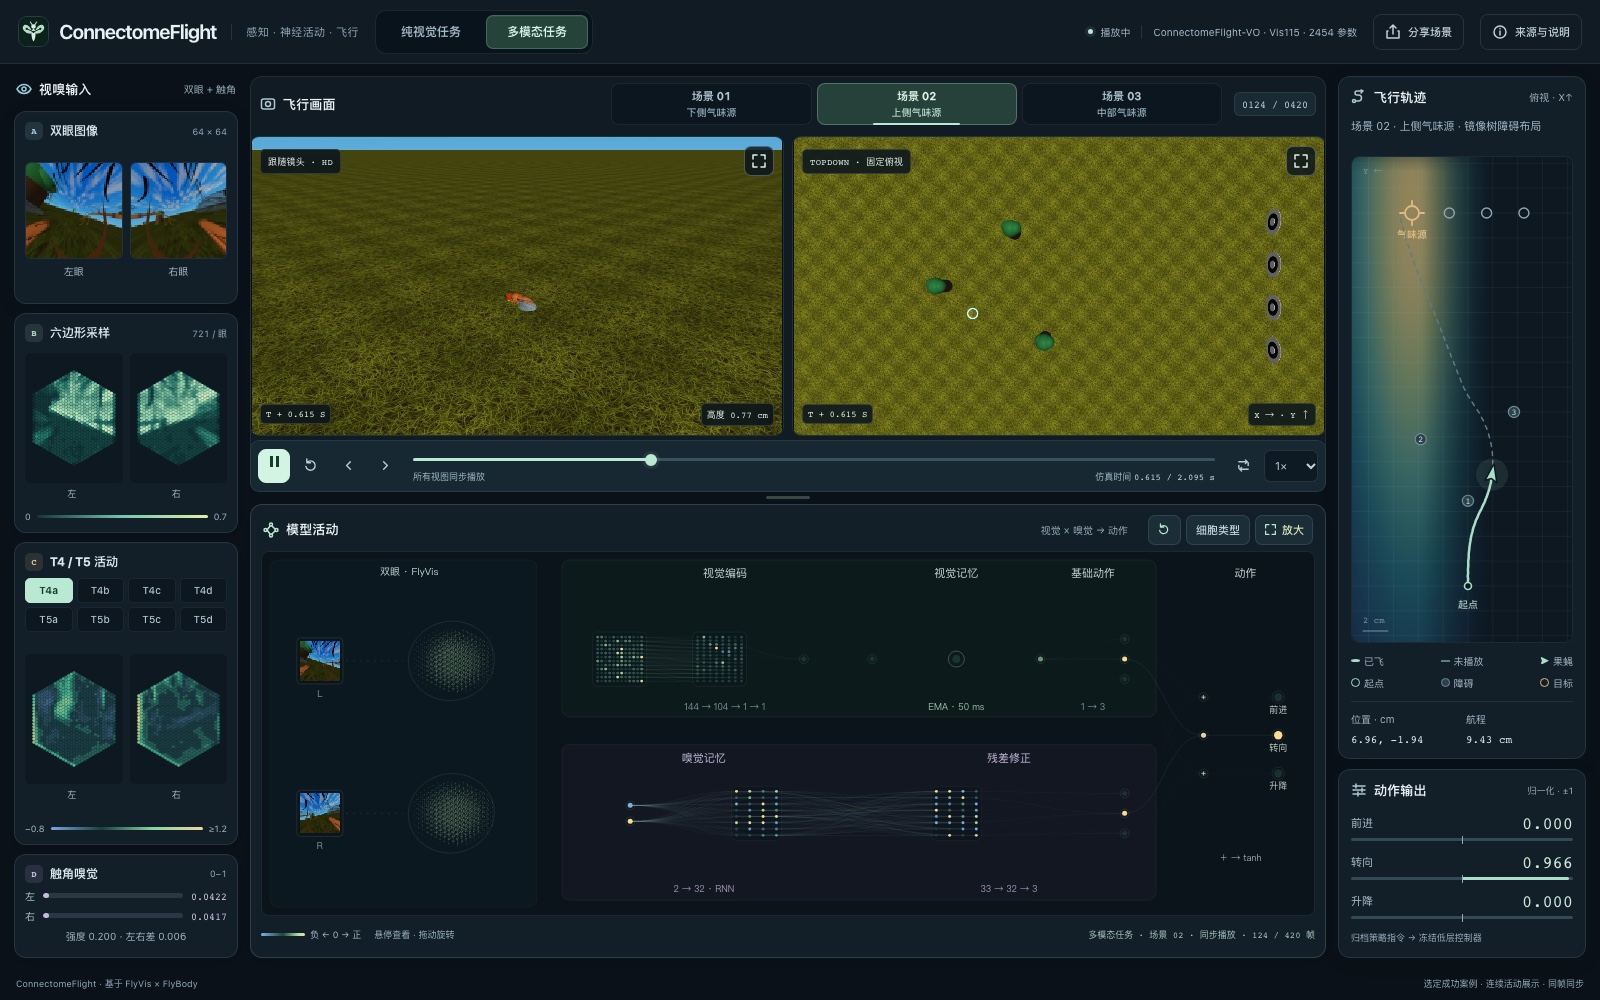
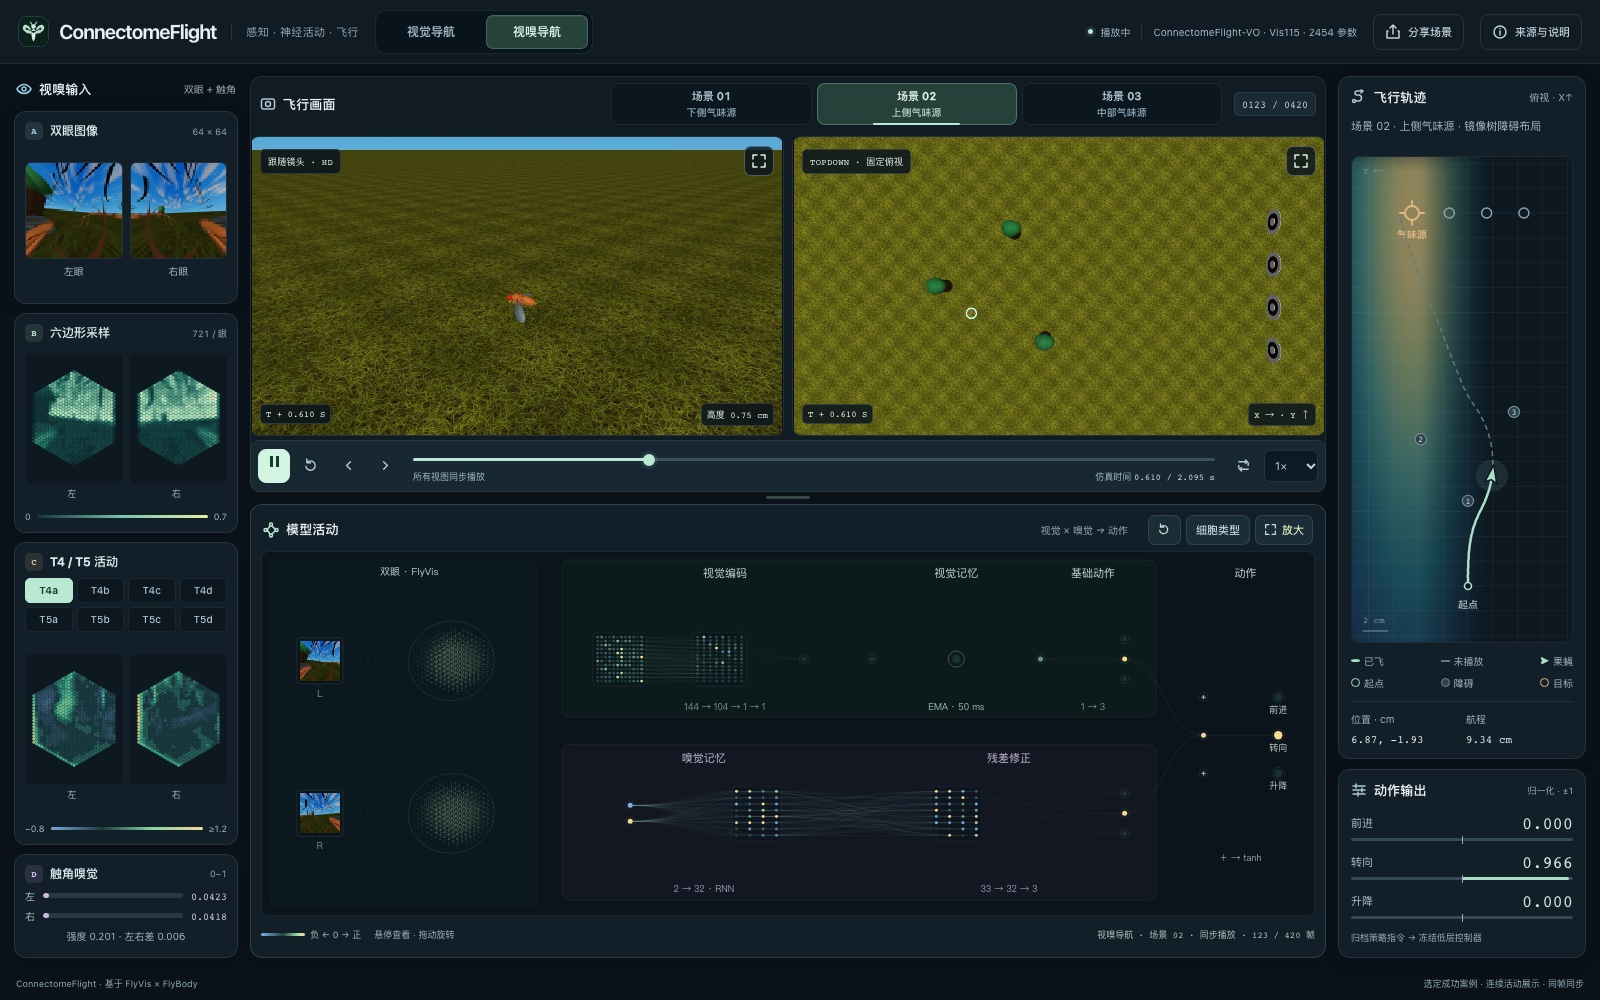
Rename site to ConnectomeFlight-Web and refresh task labels
- Update canonical, Open Graph and repository links to ConnectomeFlight-Web
- Rename task labels to 视觉导航 / 视嗅导航
- Refresh the README preview and social image

diff --git a/dist/index.html b/dist/index.html
@@ -10,8 +10,8 @@
   <meta property="og:type" content="website">
   <meta property="og:title" content="ConnectomeFlight · 感知与飞行观测台">
   <meta property="og:description" content="对照三个飞行场景，同步观察双眼与触角输入、模型活动、双镜头和飞行轨迹。">
-  <meta property="og:url" content="https://zhaofanbo.com/SenseFlight-Web/">
-  <meta property="og:image" content="https://zhaofanbo.com/SenseFlight-Web/og-preview.jpg">
+  <meta property="og:url" content="https://zhaofanbo.com/ConnectomeFlight-Web/">
+  <meta property="og:image" content="https://zhaofanbo.com/ConnectomeFlight-Web/og-preview.jpg">
   <meta property="og:image:width" content="1200">
   <meta property="og:image:height" content="630">
   <meta property="og:image:alt" content="ConnectomeFlight 观测台：双镜头、双眼与触角输入、飞行轨迹与模型活动">
@@ -19,8 +19,8 @@
   <meta name="twitter:card" content="summary_large_image">
   <meta name="twitter:title" content="ConnectomeFlight · 感知与飞行观测台">
   <meta name="twitter:description" content="对照三个飞行场景，同步观察双眼与触角输入、模型活动、双镜头和飞行轨迹。">
-  <meta name="twitter:image" content="https://zhaofanbo.com/SenseFlight-Web/og-preview.jpg">
-  <link rel="canonical" href="https://zhaofanbo.com/SenseFlight-Web/">
+  <meta name="twitter:image" content="https://zhaofanbo.com/ConnectomeFlight-Web/og-preview.jpg">
+  <link rel="canonical" href="https://zhaofanbo.com/ConnectomeFlight-Web/">
   <title>ConnectomeFlight · 感知与飞行观测台</title>
   <link rel="icon" type="image/svg+xml" href="./favicon.svg?v=final-polish-20261101">
   <link rel="stylesheet" href="./style.css?v=final-polish-20261101">
@@ -36,8 +36,8 @@
   <header class="topbar">
     <a class="brand" href="./" aria-label="ConnectomeFlight 观测台首页"><span class="brand-mark" aria-hidden="true"><img src="./favicon.svg?v=final-polish-20261101" alt=""></span><strong>ConnectomeFlight</strong><span class="brand-subtitle">感知 · 神经活动 · 飞行</span></a>
     <div class="difficulty-list task-switcher" role="group" aria-label="选择实验任务">
-          <button class="difficulty active" type="button" data-difficulty="D3" aria-pressed="true" title="纯视觉任务：可见球形目标随机树林；T4/T5 读出，115 参数"><strong>纯视觉任务</strong></button>
-          <button class="difficulty" type="button" data-difficulty="D4" aria-pressed="false" title="多模态任务：视觉与嗅觉，四目标气味源导航"><strong>多模态任务</strong></button>
+          <button class="difficulty active" type="button" data-difficulty="D3" aria-pressed="true" title="视觉导航：可见球形目标随机树林；T4/T5 读出，115 参数"><strong>视觉导航</strong></button>
+          <button class="difficulty" type="button" data-difficulty="D4" aria-pressed="false" title="视嗅导航：视觉与嗅觉，四目标气味源导航"><strong>视嗅导航</strong></button>
         </div>
     <div class="top-status" data-state="loading"><span class="live-dot" aria-hidden="true"></span><span id="playback-status">加载中</span><span class="model-tag">ConnectomeFlight-V · T4/T5 · 115 参数</span></div>
     <button id="share-open" aria-label="分享当前场景" title="分享当前场景" class="quiet-button" type="button" aria-haspopup="dialog" disabled><svg class="ui-icon" viewBox="0 0 16 16" aria-hidden="true"><path d="M8 10V1m-3 3 3-3 3 3M3 7H2v7h12V7h-1"></path></svg><span>分享场景</span></button>
@@ -105,7 +105,7 @@
       <section class="trajectory-card" aria-labelledby="trajectory-title">
         <div class="right-head"><h2 id="trajectory-title"><svg class="ui-icon" viewBox="0 0 16 16" aria-hidden="true"><circle cx="3" cy="12" r="1.5"></circle><path d="M4.5 12h3a3 3 0 0 0 0-6H6a2 2 0 0 1 0-4h6m-2-1 2 1-2 2"></path></svg>飞行轨迹</h2><span id="trajectory-view">俯视 · X↑</span></div>
 
-        <p id="task-summary" class="task-summary" role="status">正在加载纯视觉任务…</p>
+        <p id="task-summary" class="task-summary" role="status">正在加载视觉导航…</p>
         <div class="trajectory-map"><canvas id="trajectory" role="img" aria-label="俯视轨迹：实线为已飞路径，虚线为未播放路径，箭头为当前果蝇，圆形为障碍"></canvas></div>
         <div class="map-legend"><span><i class="legend-line"></i>已飞</span><span><i class="legend-pending"></i>未播放</span><span><i class="legend-fly"></i>果蝇</span><span><i class="legend-start"></i>起点</span><span><i class="legend-obstacle"></i>障碍</span><span><i class="legend-target"></i>目标</span></div>
         <div class="position-readout"><div><small>位置 · cm</small><strong id="position-xy">0.00, 0.00</strong></div><div><small>航程</small><strong id="distance">0.00 cm</strong></div></div>
@@ -128,8 +128,8 @@
   <dialog id="info-dialog" class="info-dialog" aria-labelledby="info-title">
     <div class="dialog-head"><h2 id="info-title">来源与显示说明</h2><button id="info-close" type="button" aria-label="关闭来源与说明">×</button></div>
     <div class="info-content">
-      <section class="info-section"><h3>从感知到飞行</h3><p>ConnectomeFlight 将感官输入、模型活动和飞行结果放在同一时间轴上。切换纯视觉与多模态任务，对照观察双眼、触角、两路镜头、轨迹与动作。</p></section>
-      <section class="info-section"><h3>当前演示</h3><p id="task-model-note">纯视觉任务使用 115 参数的 ConnectomeFlight-V（T4/T5，update800）。双眼特征经固定压缩、标量读出和 50 ms EMA 记忆产生飞行动作，在树林中绕行抵达球形目标。</p><p>画面来自选定成功案例，不代表整体性能或独立泛化测试。</p></section>
+      <section class="info-section"><h3>从感知到飞行</h3><p>ConnectomeFlight 将感官输入、模型活动和飞行结果放在同一时间轴上。切换视觉导航与视嗅导航，对照观察双眼、触角、两路镜头、轨迹与动作。</p></section>
+      <section class="info-section"><h3>当前演示</h3><p id="task-model-note">视觉导航使用 115 参数的 ConnectomeFlight-V（T4/T5，update800）。双眼特征经固定压缩、标量读出和 50 ms EMA 记忆产生飞行动作，在树林中绕行抵达球形目标。</p><p>画面来自选定成功案例，不代表整体性能或独立泛化测试。</p></section>
       <section class="info-section"><h3>怎样阅读活动图</h3><p>蓝色表示负值，绿色至黄色表示正值。亮点展示量化后的连续模型响应，不是生物脉冲记录；布局用于说明网络结构，不表示完整脑解剖或因果归因。俯视画面中的细线圆环标出果蝇位置。</p><p id="network-population">正在读取展示布局…</p><details id="cell-type-details" class="network-details"><summary>筛选视觉细胞类型</summary><p id="network-sampling"></p><div id="network-cell-types" class="network-cell-types" role="group" aria-label="选择 FlyVis 细胞类型"></div><p id="network-validation"></p></details></section>
       <section class="info-section"><h3>操作提示</h3><div class="shortcut-list"><span><kbd>空格</kbd> 播放 / 暂停</span><span><kbd>←</kbd><kbd>→</kbd> 逐帧查看</span><span><kbd>R</kbd> 从头播放</span><span><kbd>L</kbd> 循环播放</span><span>模型图获得焦点后，方向键旋转，<kbd>Home</kbd> 恢复视角</span></div><p>每个任务各有三个场景，切换后双镜头、轨迹和活动同时更新。拖动时间轴可定位回放，分享场景可保留当前帧；手机上的模型图支持横向滑动。所有视图同帧更新，气味场底色用于辅助观察。</p><p>时间读数为仿真时间；1× 回放以每秒 20 帧展示，每帧对应 5 ms 仿真记录。打开说明或切换到其他标签页时，回放会自动暂停。</p></section>
       <section class="info-section"><h3>来源与致谢</h3><p>基于上游 <strong>FlyVis</strong> 视觉模型与 <strong>FlyBody</strong> 果蝇身体模型。界面交互参考 <a href="https://github.com/Lulzx/fly-brain" target="_blank" rel="noopener noreferrer">fly-brain</a> 和 <a href="https://huggingface.co/spaces/Xenova/fruit-fly-simulation" target="_blank" rel="noopener noreferrer">Neural Canvas</a>。</p></section>

diff --git a/dist/app.js b/dist/app.js
@@ -3,12 +3,12 @@ import { OdorFieldLayer } from './odor-field.js?v=final-polish-20261101';
 const byId = id => document.getElementById(id);
 const clamp = (v, lo, hi) => Math.max(lo, Math.min(hi, v));
 const TASKS = {
-  D3: { name: '纯视觉任务', model: 'ConnectomeFlight-V · T4/T5 · 115 参数', summary: '树林 v3 · 绕行抵达球形目标', scenes: [
+  D3: { name: '视觉导航', model: 'ConnectomeFlight-V · T4/T5 · 115 参数', summary: '树林 v3 · 绕行抵达球形目标', scenes: [
     {detail:'上侧目标', summary:'上侧球形目标 · 5 处树障碍'},
     {detail:'中部目标', summary:'中部球形目标 · 4 处树障碍'},
     {detail:'下侧目标', summary:'下侧球形目标 · 5 处树障碍'},
   ] },
-  D4: { name: '多模态任务', model: 'ConnectomeFlight-VO · Vis115 · 2454 参数', summary: 'Vis115 + 嗅觉残差 · update25600 · 选定成功案例', scenes: [
+  D4: { name: '视嗅导航', model: 'ConnectomeFlight-VO · Vis115 · 2454 参数', summary: 'Vis115 + 嗅觉残差 · update25600 · 选定成功案例', scenes: [
     {detail:'下侧气味源', summary:'下侧气味源 · 相同外观的 4 个目标'},
     {detail:'上侧气味源', summary:'上侧气味源 · 镜像树障碍布局'},
     {detail:'中部气味源', summary:'中部气味源 · 不同树障碍布局'},
@@ -178,8 +178,8 @@ async function loadScene(key, variant, initialFrame=0) {
   document.body.classList.toggle('multimodal',key==='D4');byId('odor-card').hidden=key!=='D4';
   document.querySelector('.model-tag').textContent=task().model;
   byId('task-model-note').textContent=key==='D4'
-    ? '多模态任务使用 ConnectomeFlight 冻结多模态队列的默认代表模型：ConnectomeFlight-VO，2454 参数、seed65251/update25600。完整 Vis115 分支经固定压缩和 50 ms EMA 产生视觉基准；触角气味经 32 维 RNN，与视觉记忆融合形成残差。两路相加后经 tanh 控制飞行。这里提供三个不同场景的成功案例，可对照气味源和障碍布局变化。'
-    : '纯视觉任务使用 115 参数的 ConnectomeFlight-V（T4/T5，update800）。双眼 144 维特征经固定归一化与 104 维压缩，再经两个标量读出层、50 ms EMA 记忆和动作头，在疏朗树林 v3 中绕行抵达直径 1.8 cm 的球形目标。';
+    ? '视嗅导航使用 ConnectomeFlight 冻结多模态队列的默认代表模型：ConnectomeFlight-VO，2454 参数、seed65251/update25600。完整 Vis115 分支经固定压缩和 50 ms EMA 产生视觉基准；触角气味经 32 维 RNN，与视觉记忆融合形成残差。两路相加后经 tanh 控制飞行。这里提供三个不同场景的成功案例，可对照气味源和障碍布局变化。'
+    : '视觉导航使用 115 参数的 ConnectomeFlight-V（T4/T5，update800）。双眼 144 维特征经固定归一化与 104 维压缩，再经两个标量读出层、50 ms EMA 记忆和动作头，在疏朗树林 v3 中绕行抵达直径 1.8 cm 的球形目标。';
   document.querySelector('.column-heading h2').lastChild.textContent=key==='D4'?'视嗅输入':'视觉输入';
   document.querySelector('.column-heading > span').textContent=key==='D4'?'双眼 + 触角':'左眼 / 右眼';
   document.querySelector('.eye-card .card-tag').textContent=key==='D4'?'64 × 64':'32 × 32';

diff --git a/serve.py b/serve.py
@@ -60,5 +60,5 @@ class Handler(SimpleHTTPRequestHandler):
         pass
 
 if __name__ == '__main__':
-    print('SenseFlight preview: http://127.0.0.1:8091/', flush=True)
+    print('ConnectomeFlight preview: http://127.0.0.1:8091/', flush=True)
     ThreadingHTTPServer(('127.0.0.1', 8091), Handler).serve_forever()

diff --git a/README.md b/README.md
@@ -7,13 +7,13 @@
 <p align="center"><strong>A synchronized observatory for connectome-constrained fly navigation.</strong></p>
 
 <p align="center">
-  <a href="https://zhaofanbo.com/SenseFlight-Web/"><img alt="Live observatory" src="https://img.shields.io/badge/live-zhaofanbo.com%2FSenseFlight--Web-2ea44f?style=flat-square"></a>
+  <a href="https://zhaofanbo.com/ConnectomeFlight-Web/"><img alt="Live observatory" src="https://img.shields.io/badge/live-zhaofanbo.com%2FConnectomeFlight--Web-2ea44f?style=flat-square"></a>
   <img alt="Models" src="https://img.shields.io/badge/models-115%20%7C%202454-4c8eda?style=flat-square">
-  <a href="https://github.com/FanboZhao/SenseFlight-Web/actions/workflows/deploy-pages.yml"><img alt="Deploy status" src="https://github.com/FanboZhao/SenseFlight-Web/actions/workflows/deploy-pages.yml/badge.svg"></a>
+  <a href="https://github.com/FanboZhao/ConnectomeFlight-Web/actions/workflows/deploy-pages.yml"><img alt="Deploy status" src="https://github.com/FanboZhao/ConnectomeFlight-Web/actions/workflows/deploy-pages.yml/badge.svg"></a>
   <a href="LICENSE"><img alt="MIT license" src="https://img.shields.io/badge/license-MIT-blue?style=flat-square"></a>
 </p>
 
-<p align="center"><a href="https://zhaofanbo.com/SenseFlight-Web/"><strong>Open the live observatory →</strong></a></p>
+<p align="center"><a href="https://zhaofanbo.com/ConnectomeFlight-Web/"><strong>Open the live observatory →</strong></a></p>
 
 ConnectomeFlight is a browser-based observatory for two embodied navigation policies: a **pure visual** fly and a **visuo-olfactory** fly. Each task offers three selectable flight replays. The page keeps both cameras, the raw eye and antennal inputs, the trajectory, the model's internal activity and its actions on the same frame.
 
